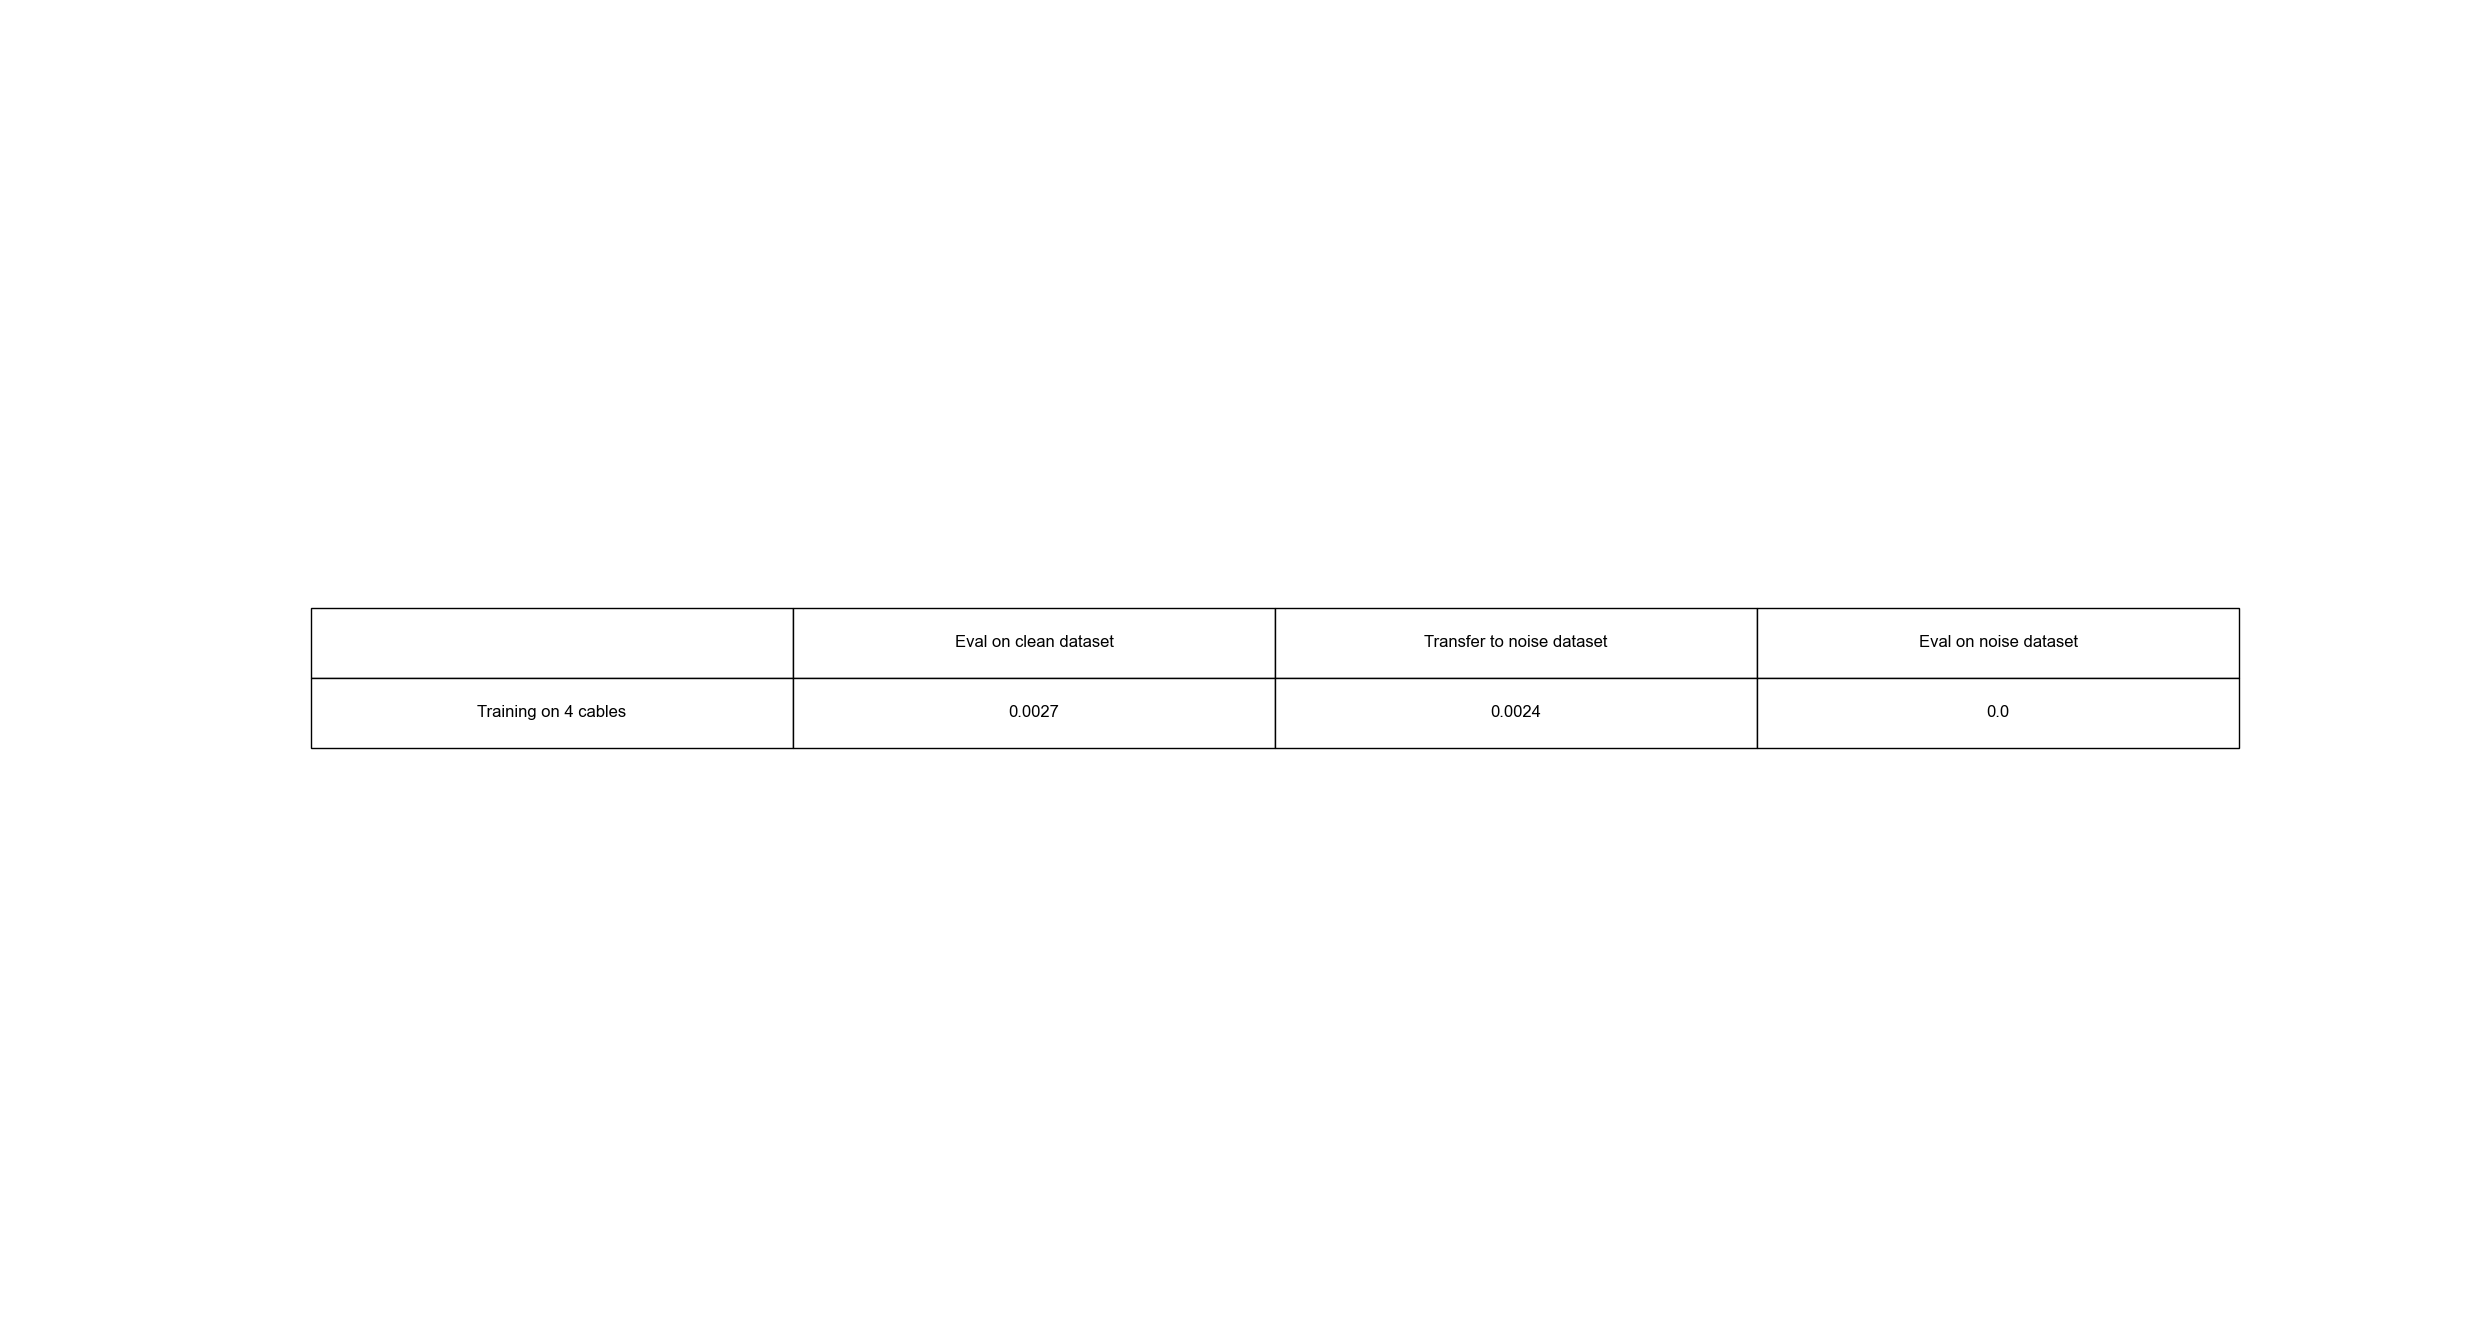
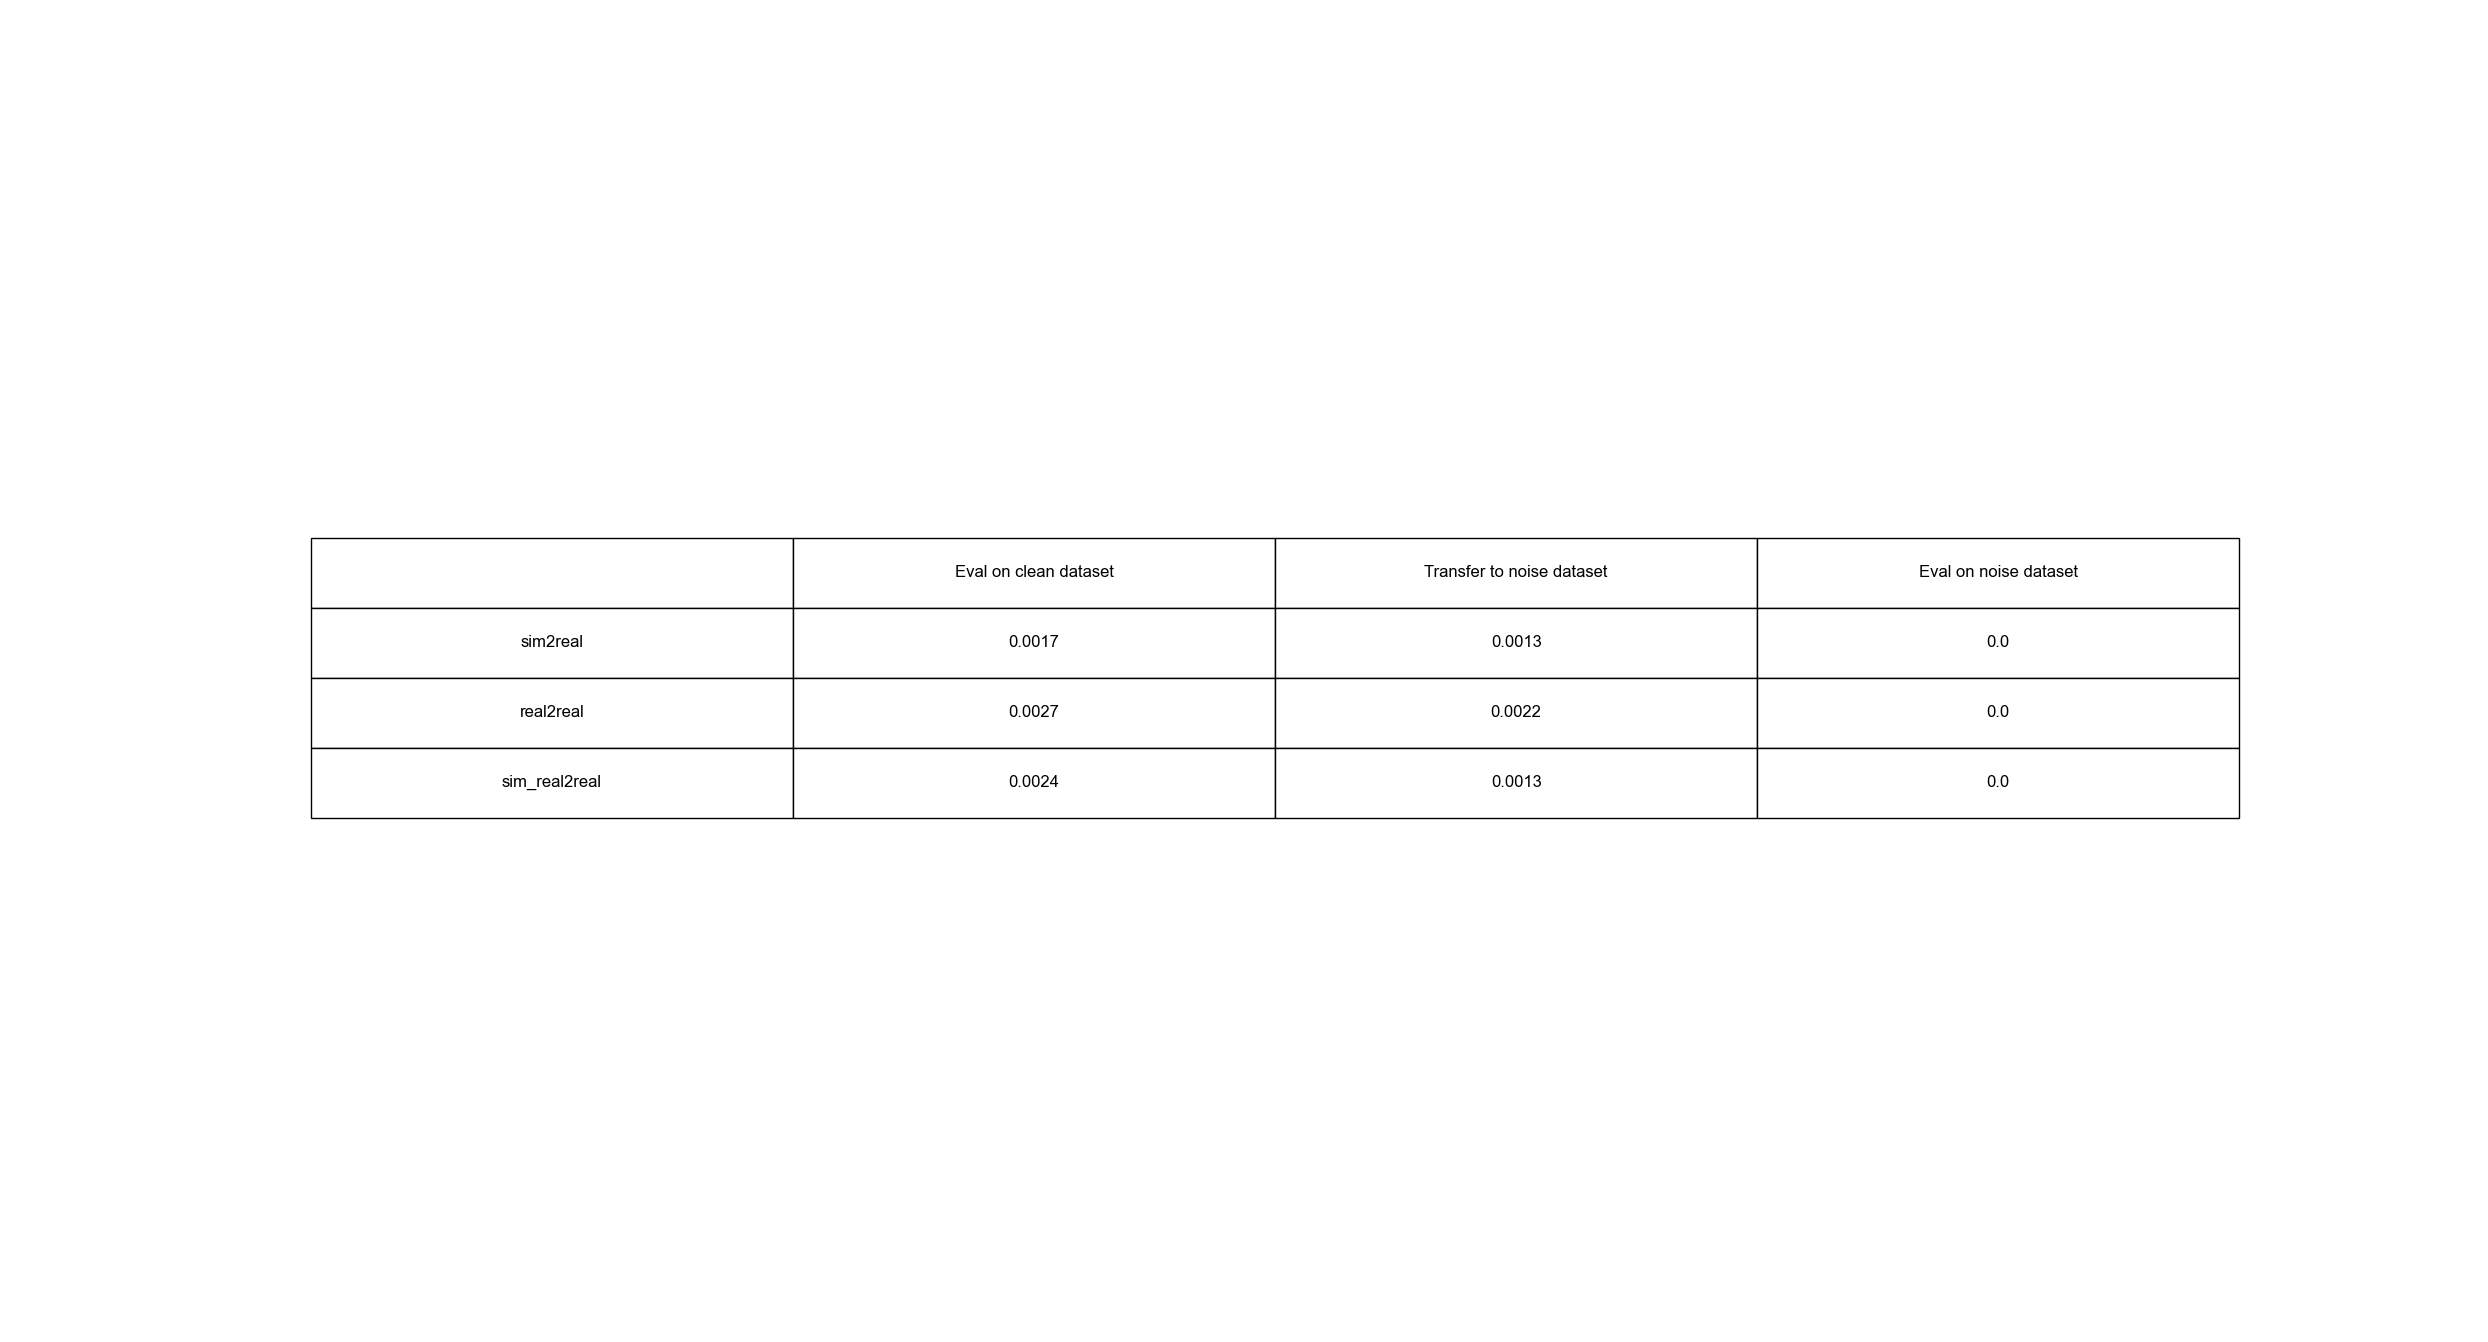
[M] small revisions

diff --git a/exp4.2-transfer_eval.py b/exp4.2-transfer_eval.py
@@ -15,13 +15,8 @@ plt.rcParams['font.family'] = 'sans-serif'
 plt.rcParams['font.sans-serif'] = 'Arial'
 plt.rcParams['font.style'] = 'normal'
 
-### create save directory
-save_dir = 'model/exp5-sim2real/transfer_results_onlysim2real'
-save_dir_abs = os.path.join(os.getcwd(), save_dir)
-if not os.path.exists(save_dir):
-    os.mkdir(save_dir)
 
-def train(train_cables=4):
+def train(train_cables=4, exp_name='sim2real'):
 
     ### create dataset
     train_loader_list = {}
@@ -31,9 +26,9 @@ def train(train_cables=4):
     for _noise in ['noise','clean']:
 
         if _noise == 'noise':
-            data_list = create_dataset_real(num_features=train_cables, folder='sim2real/real_data',noise = True, sim_data=True)
+            data_list = create_dataset_real(num_features=train_cables, folder='sim2real/real_data', noise=True, exp_name=exp_name)
         else:
-            data_list = create_dataset_real(num_features=train_cables, folder='sim2real/real_data',noise = False, sim_data=True)
+            data_list = create_dataset_real(num_features=train_cables, folder='sim2real/real_data', noise=False, exp_name=exp_name)
 
         num_data = len(data_list)
 
@@ -45,7 +40,7 @@ def train(train_cables=4):
         test_loader_list[_noise] = test_loader
         val_loader_list[_noise] = val_loader
 
-    source_dir = 'model/exp5-sim2real/sim2real_onlysim2real'
+    source_dir = 'model/exp5-sim2real/'+exp_name
 
     #load cfg
     with open(os.path.join(source_dir, 'best_config{}.pkl'.format(train_cables)), 'rb') as f:
@@ -69,6 +64,8 @@ def train(train_cables=4):
         total_num += data.num_graphs
     test_loss_clean= total_loss / total_num
 
+    total_loss = 0
+    total_num = 0
     for data in test_loader_list['noise']:
         data = data.to(device)
         out = model(data.x, data.edge_index, data.edge_features,current_cable=train_cables)
@@ -126,27 +123,35 @@ def train(train_cables=4):
     plt.tight_layout()
     # save fig
     # plt.savefig(os.path.join(save_dir_abs, 'Eval on real data.png'))
-    plt.show()
+    # plt.show()
     plt.close()
 
     return test_loss_clean, test_loss_noise
 
 if __name__ == '__main__':
-    test_loss_list = np.zeros((11,3))
-    for i in range(4, 5):
-        test_loss_clean, test_loss_noise = train(train_cables=i)
+
+    exp_names = ['sim2real', 'real2real','sim_real2real']
+
+    ### create save directory
+    save_dir = 'model/exp5-sim2real/transfer_sim2real'
+    save_dir_abs = os.path.join(os.getcwd(), save_dir)
+    if not os.path.exists(save_dir):
+        os.mkdir(save_dir)
+    table_data =[]
+    for i, exp_name in enumerate(exp_names):
+
+        test_loss_list = np.zeros((11,3))
+
+        test_loss_clean, test_loss_noise = train(train_cables=4, exp_name=exp_name)
         test_loss_list[i,0] = test_loss_clean
         test_loss_list[i,1] = test_loss_noise
         test_loss_list[i,2] = 0
+        test_loss_list = np.round(test_loss_list, 4)
 
+        table_data.append([exp_name, test_loss_list[i, 0], test_loss_list[i, 1], test_loss_list[i, 2]])
 
     np.save(os.path.join(save_dir_abs, 'transfer_loss_table.npy'), test_loss_list)
 
-    test_loss_list = np.round(test_loss_list, 4)
-
-    table_data = [
-        ["Training on 4 cables", test_loss_list[4, 0], test_loss_list[4, 1], test_loss_list[4, 2]],
-    ]
 
     headers = ["", "Eval on clean dataset", "Transfer to noise dataset", "Eval on noise dataset"]
 

diff --git a/exp4.2-train_sim2real.py b/exp4.2-train_sim2real.py
@@ -13,6 +13,7 @@ from ray.tune.schedulers import ASHAScheduler
 from utils.GraphNet import GraphNet
 
 best_loss = float("inf")  # Initialize best_loss as positive infinity
+exp_name = 'sim2real' # ['sim2real', 'real2real','sim_real2real']
 
 def train(config, train_cables):
 
@@ -26,9 +27,9 @@ def train(config, train_cables):
     for _noise in ['noise','clean']:
 
         if _noise == 'noise':
-            data_list = create_dataset_real(num_features=train_cables, folder='sim2real/real_data', noise = True, sim_data=True)
+            data_list = create_dataset_real(num_features=train_cables, folder='sim2real/real_data', noise=True, exp_name=exp_name)
         else:
-            data_list = create_dataset_real(num_features=train_cables, folder='sim2real/real_data', noise = False, sim_data=True)
+            data_list = create_dataset_real(num_features=train_cables, folder='sim2real/real_data', noise=False, exp_name=exp_name)
 
         num_data = len(data_list)
 
@@ -144,7 +145,7 @@ def main(num_samples=100, max_num_epochs=100, gpus_per_trial=1, num_cables=4):
         best_checkpoint_dir, "checkpoint"))
     best_trained_model.load_state_dict(model_state)
 
-    save_dir = os.path.join(os.getcwd(),"model/exp5-sim2real/sim2real_onlysim2real")
+    save_dir = os.path.join(os.getcwd(),"model/exp5-sim2real/"+exp_name)
     os.makedirs(save_dir, exist_ok=True)
     torch.save(best_trained_model.state_dict(), os.path.join(save_dir,"best_model_finetune{}.pth".format(num_cables)))
     print("Best trial model saved at: {}".format(save_dir))
@@ -161,4 +162,4 @@ def main(num_samples=100, max_num_epochs=100, gpus_per_trial=1, num_cables=4):
 
 if __name__ == '__main__':
     for i in range(4,5): # from 7 cables: 100 samples, 456: 1000samples for noise 2; noise 5: on clean 6 cables 1000 samples
-        main(num_samples=300, max_num_epochs=300, gpus_per_trial=1,num_cables=i)
+        main(num_samples=100, max_num_epochs=100, gpus_per_trial=1,num_cables=i)

diff --git a/exp4.1-train_transfer_noise.py b/exp4.1-train_transfer_noise.py
@@ -56,7 +56,7 @@ def train(config, train_cables):
         total_loss = 0
         total_num = 0
 
-        for data in train_loader_list['clean']:
+        for data in train_loader_list['noise']:
             data = data.to(device)
             optimizer.zero_grad()
             out = model(data.x, data.edge_index, data.edge_features,current_cable=train_cables)
@@ -144,7 +144,7 @@ def main(num_samples=100, max_num_epochs=100, gpus_per_trial=1, num_cables=4):
         best_checkpoint_dir, "checkpoint"))
     best_trained_model.load_state_dict(model_state)
 
-    save_dir = os.path.join(os.getcwd(),"model/exp4-noise/noise_{}_training_on_clean".format(noise_range))
+    save_dir = os.path.join(os.getcwd(),"model/exp4-noise/noise_{}_training_on_noise".format(noise_range))
     os.makedirs(save_dir, exist_ok=True)
     torch.save(best_trained_model.state_dict(), os.path.join(save_dir,"best_model_finetune{}.pth".format(num_cables)))
     print("Best trial model saved at: {}".format(save_dir))
@@ -161,4 +161,4 @@ def main(num_samples=100, max_num_epochs=100, gpus_per_trial=1, num_cables=4):
 
 if __name__ == '__main__':
     for i in range(10,11): # from 7 cables: 100 samples, 456: 1000samples for noise 2; noise 5: on clean 6 cables 1000 samples
-        main(num_samples=1000, max_num_epochs=500, gpus_per_trial=1,num_cables=i)
+        main(num_samples=100, max_num_epochs=2000, gpus_per_trial=1,num_cables=i)

diff --git a/utils/utils.py b/utils/utils.py
@@ -319,7 +319,7 @@ def quaternion_multiply(q1, q2):
 
     return result
 
-def create_dataset_real(num_features=4,folder='exp_data_0717/forGNN',noise=False, sim_data=False):
+def create_dataset_real(num_features=4,folder='exp_data_0717/forGNN',noise=False, exp_name=None):
     # Choose the correct data folder based on num_features
     feature_data_list = []
     for i in range(6):
@@ -337,10 +337,18 @@ def create_dataset_real(num_features=4,folder='exp_data_0717/forGNN',noise=False
         feature_data_list.append(feature_data)
 
     feature_data = np.concatenate(feature_data_list,axis=0)
-    if sim_data and not noise:
-        sim_data = load_sim_data(abs_data_path)
-        # feature_data = np.concatenate([feature_data,sim_data],axis=0)
-        feature_data = sim_data
+    if not noise:
+        if exp_name == 'sim2real':
+
+            _sim_data = load_sim_data(abs_data_path)
+            feature_data = _sim_data
+
+        elif exp_name == 'sim_real2real':
+            _sim_data = load_sim_data(abs_data_path)
+            feature_data = np.concatenate([feature_data,_sim_data],axis=0)
+
+        elif exp_name == 'real2real':
+            pass
 
     edge_data = read_csv_to_numpy_array(os.path.join(abs_data_path, folder, 'exp_cdprconf.csv'))
 

diff --git a/exp4.1-transfer_eval.py b/exp4.1-transfer_eval.py
@@ -15,7 +15,7 @@ plt.rcParams['font.family'] = 'sans-serif'
 plt.rcParams['font.sans-serif'] = 'Arial'
 plt.rcParams['font.style'] = 'normal'
 
-noise_range = 10
+noise_range = 5
 ### create save directory
 save_dir = 'model/exp4-noise/transfer_results_noise{}'.format(noise_range)
 save_dir_abs = os.path.join(os.getcwd(), save_dir)
@@ -70,6 +70,8 @@ def train(train_cables=4):
         total_num += data.num_graphs
     test_loss_clean= total_loss / total_num
 
+    total_loss = 0
+    total_num = 0
     for data in test_loader_list['noise']:
         data = data.to(device)
         out = model(data.x, data.edge_index, data.edge_features,current_cable=train_cables)
